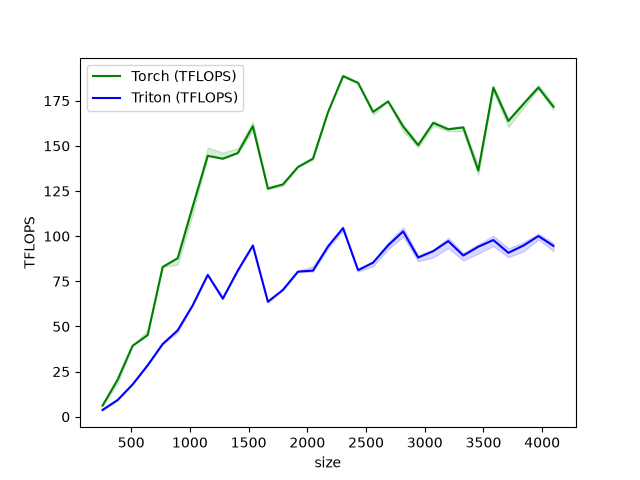
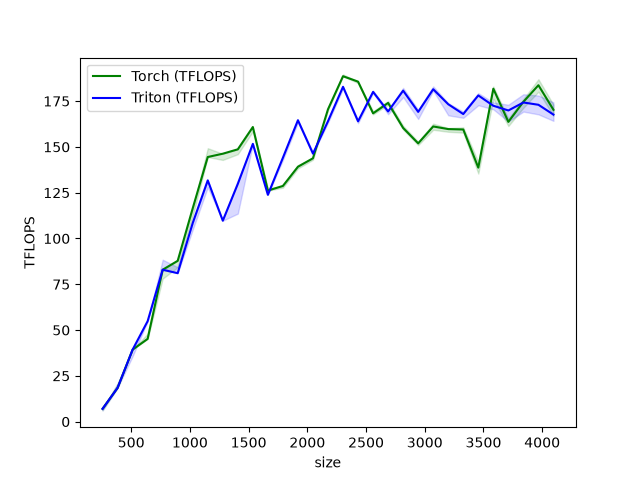
apparently type annotations bad

diff --git a/triton_testing/matmul_from_memory.py b/triton_testing/matmul_from_memory.py
@@ -55,15 +55,15 @@ def matmul_kernel(
     a_ptr,
     b_ptr,
     c_ptr,
-    M: int,
-    K: int,
-    N: int,
-    a_stride_M: int,
-    a_stride_K: int,
-    b_stride_K: int,
-    b_stride_N: int,
-    c_stride_M: int,
-    c_stride_N: int,
+    M,
+    K,
+    N,
+    a_stride_M,
+    a_stride_K,
+    b_stride_K,
+    b_stride_N,
+    c_stride_M,
+    c_stride_N,
     BLOCK_SIZE_M: tl.constexpr,
     BLOCK_SIZE_N: tl.constexpr,
     BLOCK_SIZE_K: tl.constexpr,
@@ -219,7 +219,7 @@ def matmul(a: torch.Tensor, b: torch.Tensor) -> torch.Tensor:
     a = a.to(torch.float16)
     b = b.to(torch.float16)
 
-    c = torch.empty(M, N, device=DEVICE, dtype=torch.float16)
+    c = torch.empty((M, N), device=DEVICE, dtype=torch.float16)
 
     grid = lambda meta: (
         triton.cdiv(M, meta["BLOCK_SIZE_M"]) * triton.cdiv(N, meta["BLOCK_SIZE_N"]),
@@ -258,11 +258,6 @@ def test_matmul(
     print("PASSED")
 
 
-if __name__ == "__main__":
-    print("using device", DEVICE)
-    test_matmul(1024, 1024, 1024)
-
-
 @triton.testing.perf_report(
     triton.testing.Benchmark(
         x_names=["M", "N", "K"],
@@ -278,8 +273,8 @@ if __name__ == "__main__":
     )
 )
 def benchmark(M: int, N: int, K: int, provider: str) -> tuple[float, ...]:
-    a = torch.randn(M, K, device=DEVICE, dtype=torch.float16)
-    b = torch.randn(K, N, device=DEVICE, dtype=torch.float16) / (K**0.5)
+    a = torch.randn((M, K), device=DEVICE, dtype=torch.float16)
+    b = torch.randn((K, N), device=DEVICE, dtype=torch.float16) / (K**0.5)
 
     quantiles = [0.5, 0.2, 0.8]
 
@@ -297,4 +292,7 @@ def benchmark(M: int, N: int, K: int, provider: str) -> tuple[float, ...]:
     return tflops(ms), tflops(min_ms), tflops(max_ms)
 
 
-benchmark.run(show_plots=False, print_data=True, save_path=".")
+if __name__ == "__main__":
+    print("using device", DEVICE)
+    test_matmul(1024, 1024, 1024)
+    benchmark.run(show_plots=False, print_data=True, save_path=".")

diff --git a/triton_testing/matmul.py b/triton_testing/matmul.py
@@ -56,21 +56,26 @@ def matmul_kernel(
     x_ptr,
     y_ptr,
     out_ptr,
-    M: int,
-    K: int,
-    N: int,
-    x_row_stride: int,
-    x_col_stride: int,
-    y_row_stride: int,
-    y_col_stride: int,
-    out_row_stride: int,
-    out_col_stride: int,
+    M,
+    K,
+    N,
+    x_row_stride,
+    x_col_stride,
+    y_row_stride,
+    y_col_stride,
+    out_row_stride,
+    out_col_stride,
     BLOCK_SIZE_M: tl.constexpr,
     BLOCK_SIZE_N: tl.constexpr,
     BLOCK_SIZE_K: tl.constexpr,
     GROUP_SIZE: tl.constexpr,
 ):
     """
+
+    BRO WHAT !!!!!
+    ADDING TYPE ANNOTATIONS COMPLETELY NUKES PERFORMANCE
+
+
     M = N = K = 8
     BLOCK_SIZE_{M, K, N} = 2
     [0,  1,  2,  3]
